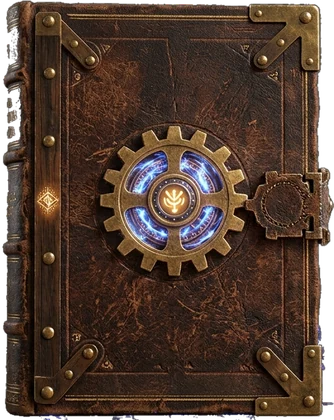
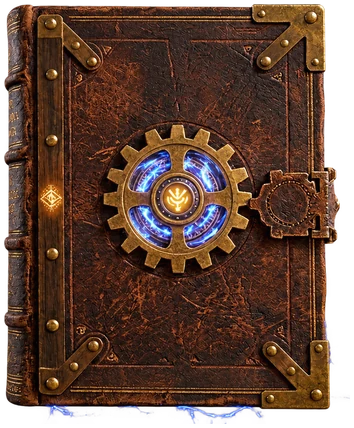
fix: settings book from the artist's cut-out, lightning included
Replaces the recut with the transparent PNG supplied by the author:
clasp, corners and the lightning under the book all intact. Trimmed
to content and converted to webp at 2x the display size.

diff --git a/app/components/ReaderSettingsWidget.vue b/app/components/ReaderSettingsWidget.vue
@@ -63,7 +63,7 @@ onUnmounted(() => {
       aria-label="Настройки вида"
       @click="open = true"
     >
-      <NuxtImg src="/reader-book.webp" class="book" width="167" height="210" alt="" />
+      <NuxtImg src="/reader-book.webp" class="book" width="174" height="210" alt="" />
     </button>
   </div>
 
